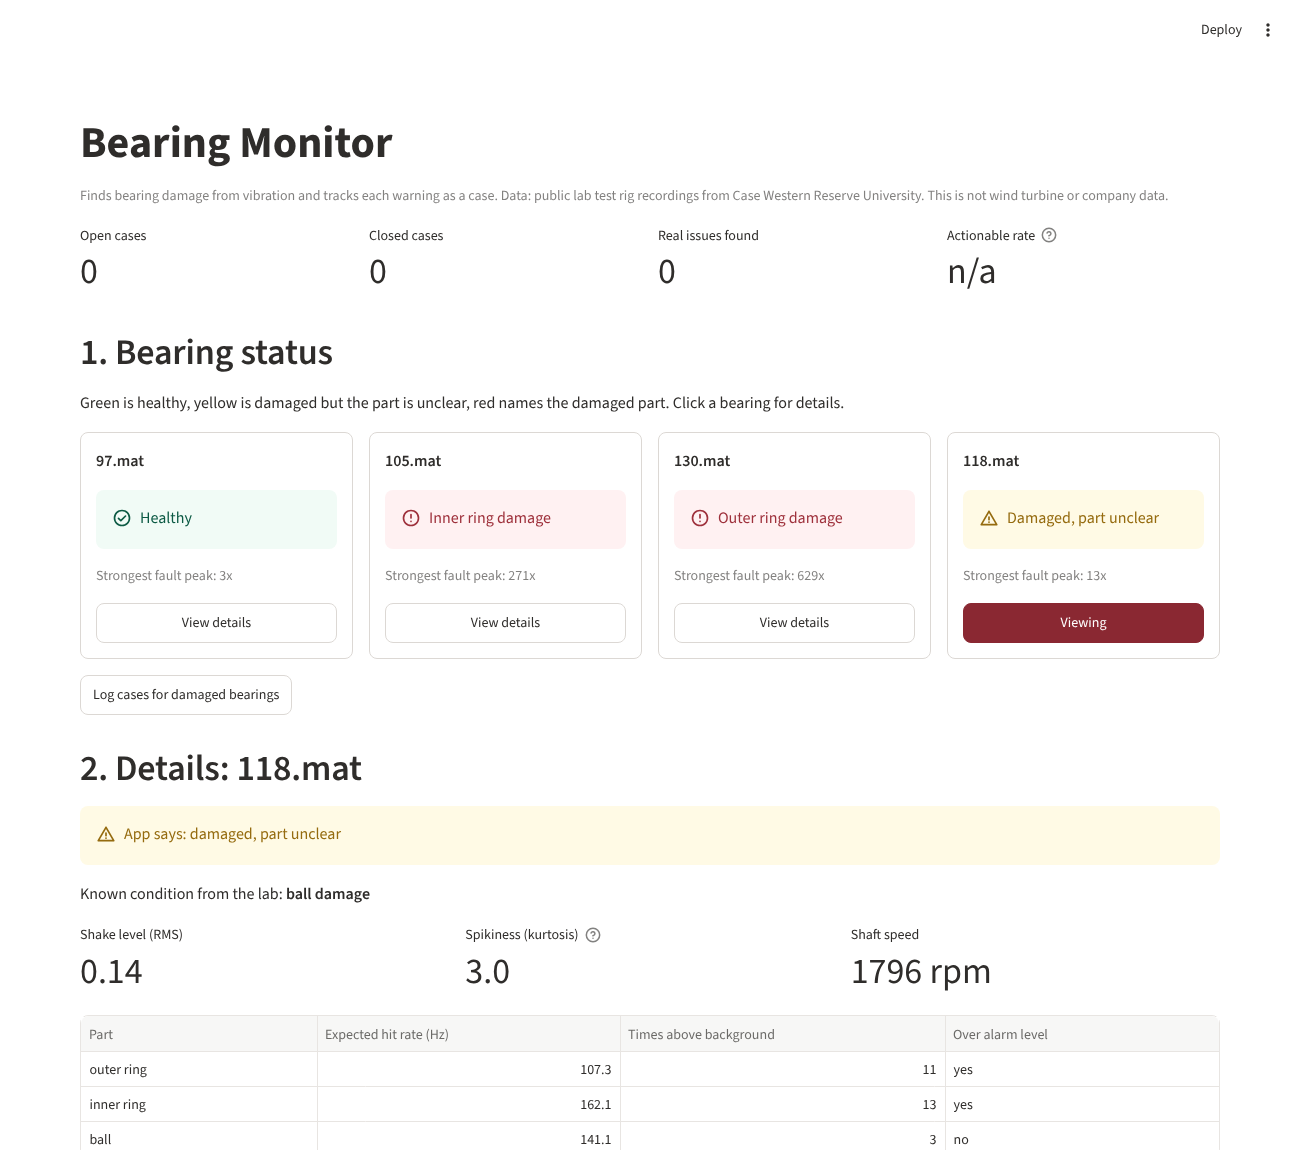
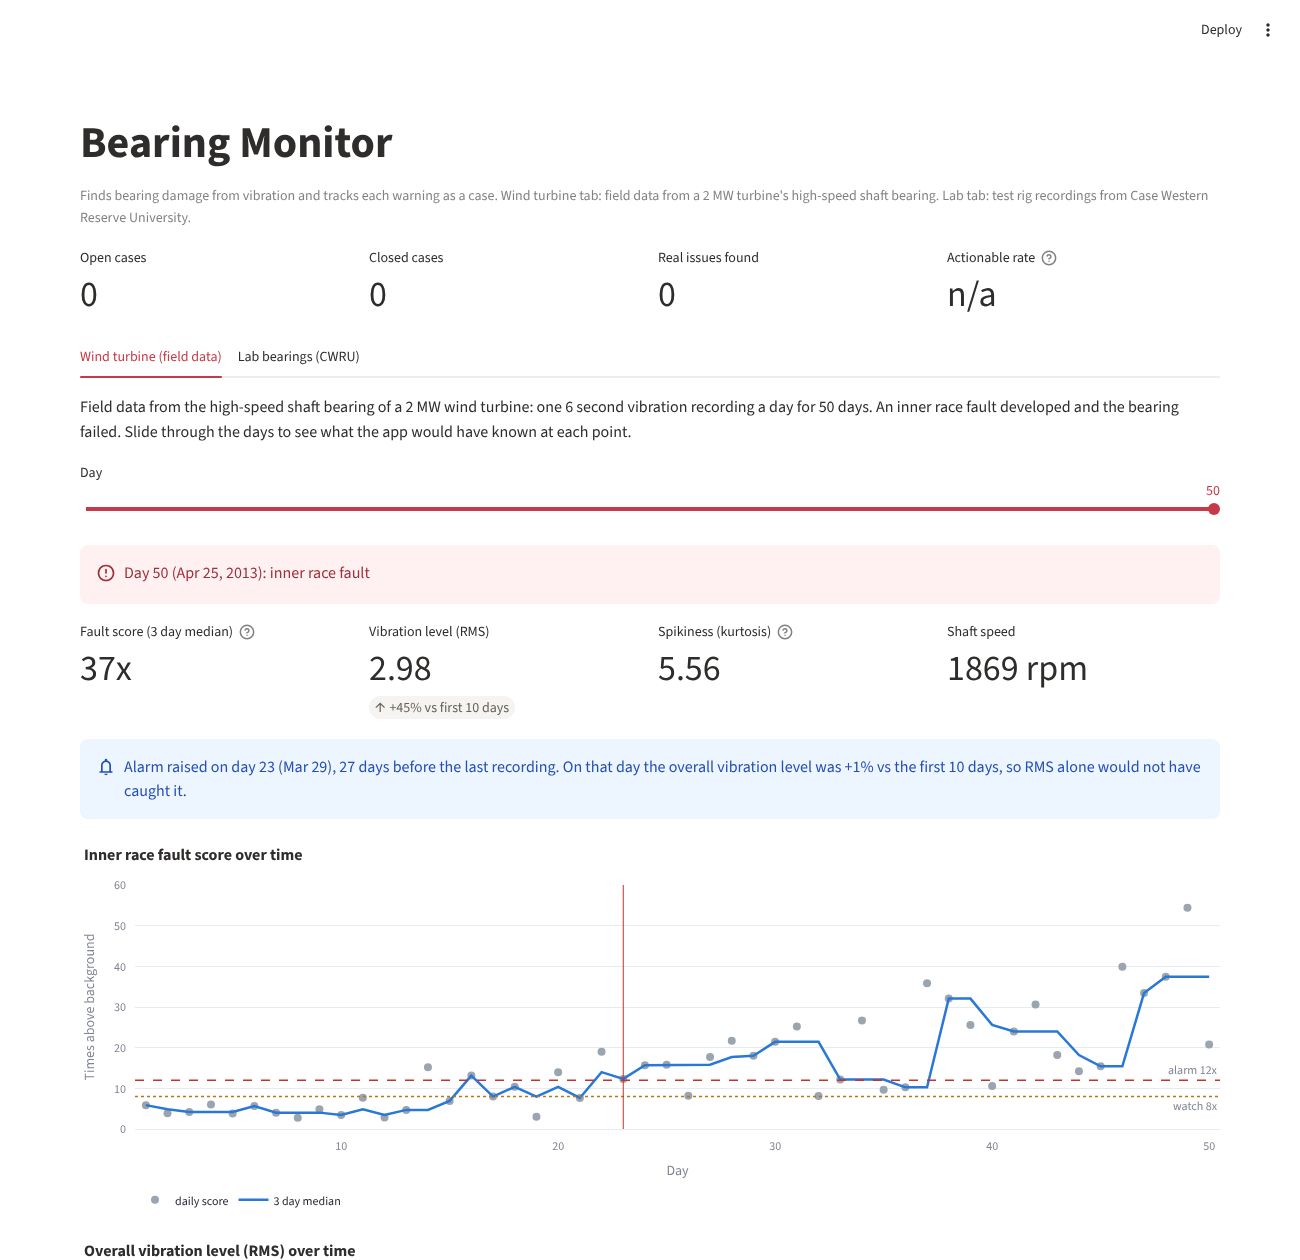
Update README.md

diff --git a/README.md b/README.md
@@ -2,6 +2,11 @@
 
 A small condition monitoring app. It reads bearing vibration recordings, finds signs of damage, names the damaged part, and tracks each warning as a case in a SQL database.
 
+It has two parts:
+
+- **Wind turbine:** 50 days of field vibration data from the high-speed shaft bearing of a 2 MW wind turbine, where an inner race fault developed and the bearing failed. The app tracks the fault day by day and shows when it would have raised the alarm.
+- **Lab bearings:** four test rig recordings with known damage, used to show the app naming the damaged part.
+
 I built it to understand how monitoring and diagnostics teams catch bearing problems before they turn into failures,
 I also wanted to get a small understanding of what type of work is done in the industry side. 
 
@@ -15,9 +20,28 @@ I also wanted to get a small understanding of what type of work is done in the i
 2. **Names the part.** The outer ring, inner ring and balls each get hit at their own rate, set by the bearing's shape and the shaft speed. The app checks for a strong pulse at each rate.
 3. **Logs a case.** Every warning is saved as a case in a SQLite database. A case is later closed as a real issue or a false alarm.
 4. **Shows every bearing at a glance.** Each recording gets a status card: green for healthy, red when the damaged part is named, yellow when it is damaged but the part is unclear. Click a card to see its spectrum and scores.
-5. **Tracks the results.** The dashboard shows open cases, closed cases, and the actionable rate, which is the share of closed cases that were real issues.
+5. **Watches a real turbine over time.** On the wind turbine tab, a day slider replays the 50 days. The app only uses data up to the chosen day, so you can see when it would have warned.
+6. **Tracks the results.** The dashboard shows open cases, closed cases, and the actionable rate, which is the share of closed cases that were real issues.
 
 ## Results
+
+### Wind turbine (field data)
+
+| | Day | Fault score (3 day median) | Overall vibration (RMS) vs first 10 days |
+|---|---|---|---|
+| Healthy period | 1 to 13 | about 4x | normal |
+| First watch | 14 | rising, single days over 12x | +11% |
+| Alarm raised | 23 (Mar 29) | 12x two days in a row | +1% |
+| Last recording | 50 (Apr 25) | 37x | +45% |
+
+The alarm came 27 days before the last recording. On the day it fired, the overall vibration level had not changed, so a simple RMS alarm would not have caught it until near the end.
+
+How it decides:
+
+- The envelope spectrum is checked at the inner race fault frequency, about 9.32 times shaft speed. The bearing geometry isn't published, so this was found from the data: the peak grows as the bearing degrades and has sidebands one shaft speed either side, which is the usual inner race pattern.
+- Single days are noisy, so the score is the median of the last 3 days. Watch at 8x, alarm at 12x for two days in a row.
+
+### Lab bearings
 
 Tested on four recordings from the Case Western Reserve University (CWRU) bearing lab, where the true condition of each bearing is known.
 
@@ -34,10 +58,11 @@ The ball fault is the weak spot. The app can tell something is wrong, but it can
 
 ## Limits
 
-- The data is from a lab test rig. It is not wind turbine data and not company data.
-- The lab bearing is a small ball bearing. Large machines like wind turbines mostly use roller bearings. The method carries over, but the numbers do not.
-- Four recordings is a small test. It shows the method works. It does not show how accurate it is in general.
-- The alarm level (8 times above background) was picked by looking at these recordings. It would need tuning on more data.
+- The wind turbine data is one bearing on one turbine. It shows the method working on field data, not how often it would be right across a fleet.
+- It is a high-speed shaft bearing, not the main bearing or a generator DE/NDE bearing. There is no public vibration data I could find for those positions.
+- The inner race fault frequency was found from the data, not from the bearing's geometry.
+- The alarm levels were picked by looking at this data. They would need tuning on more turbines.
+- The lab data is from a small ball bearing on a test rig. The ball fault there is detected but not named.
 
 ## How to run it
 
@@ -48,14 +73,23 @@ pip install -r requirements.txt
 streamlit run app.py
 ```
 
-The first run downloads the four recordings from the CWRU Bearing Data Center into a `data` folder.
+The wind turbine tab uses `wind_features.npz`, a small summary of the 50 raw recordings (about 215 MB). To rebuild it from the raw data:
+
+```
+git clone https://github.com/mathworks/WindTurbineHighSpeedBearingPrognosis-Data
+python wind_analysis.py WindTurbineHighSpeedBearingPrognosis-Data
+```
+
+The lab tab downloads its four recordings from the CWRU Bearing Data Center into a `data` folder on first run.
 
 ## Files
 
 | File | What it is |
 |---|---|
 | `app.py` | The dashboard (Streamlit and Plotly) |
-| `analysis.py` | The bearing math: filtering, envelope, hit rates, diagnosis |
+| `wind_analysis.py` | Wind turbine features: envelope spectrum, inner race score, alarm logic |
+| `wind_features.npz` | Daily features and envelope spectra for the 50 wind turbine recordings |
+| `analysis.py` | Lab bearing math: filtering, envelope, hit rates, diagnosis |
 | `database.py` | The SQL: creates the case table, adds, closes and counts cases |
 | `stage1_signal.py` | Learning step 1: make a fake healthy and damaged signal |
 | `stage2_find_fault.py` | Learning step 2: find the hit rate automatically |
@@ -63,11 +97,13 @@ The first run downloads the four recordings from the CWRU Bearing Data Center in
 
 ## What I would do next
 
-- Test on many more recordings to get a real accuracy number and tune the alarm level.
-- Track one bearing over its whole life to see how early the app catches the failure.
+- Run it on a fleet of turbines, for example the Luleå dataset (six 2.5 MW turbines over 46 months with one output shaft bearing failure), and compare each turbine against the others.
+- Run it on main bearing and generator DE/NDE data.
+- Test on many more recordings to get a real accuracy number and tune the alarm levels.
 - Put a vibration sensor on a small wind turbine I am building and monitor it with this app.
 
 ## Credits
 
-- Data: [Case Western Reserve University Bearing Data Center](https://engineering.case.edu/bearingdatacenter)
+- Wind turbine data: Eric Bechhoefer, via [MathWorks WindTurbineHighSpeedBearingPrognosis-Data](https://github.com/mathworks/WindTurbineHighSpeedBearingPrognosis-Data), licensed [CC BY-NC-SA 4.0](https://creativecommons.org/licenses/by-nc-sa/4.0/). `wind_features.npz` is derived from it and shared under the same licence.
+- Lab data: [Case Western Reserve University Bearing Data Center](https://engineering.case.edu/bearingdatacenter)
 - I was new to Vibration Analysis when I started this, and I used an AI assistant to help me understand some parts of the theory as well as coding. 
